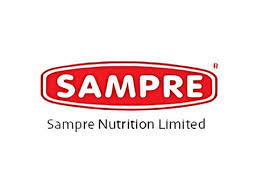
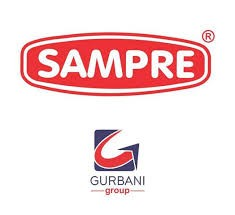
Add sampre1.jpeg image to public clients directory

Changed region(s): [[0.0596, 0.1237, 0.9234, 0.9278]]

diff --git a/src/components/Clientele.tsx b/src/components/Clientele.tsx
@@ -43,7 +43,7 @@ export const Clientele = () => {
                 <img
                   src={client.logo}
                   alt={client.name}
-                  className="relative max-w-full max-h-24 w-auto object-contain transition-all duration-500 group-hover:scale-105"
+                  className="relative max-w-full max-h-32 w-auto object-contain transition-all duration-500 group-hover:scale-105"
                   onError={(e) => {
                     // Fallback to text if image fails to load
                     const target = e.currentTarget;
@@ -59,8 +59,8 @@ export const Clientele = () => {
           
           {/* And more indicator */}
           <div className="text-center mt-8">
-            <p className="text-foreground/50 font-medium text-base tracking-wide">
-              & more
+            <p className="text-foreground/80 font-medium text-xl tracking-wide hover:text-primary transition-colors duration-300 cursor-default">
+              & more...
             </p>
           </div>
         </div>

diff --git a/src/pages/Clientele.tsx b/src/pages/Clientele.tsx
@@ -131,7 +131,7 @@ const Clientele = () => {
                 <img
                   src={client.logo}
                   alt={client.name}
-                  className="relative max-w-full max-h-28 w-auto object-contain transition-all duration-700 group-hover:scale-110"
+                  className="relative max-w-full max-h-36 w-auto object-contain transition-all duration-700 group-hover:scale-110"
                   onError={(e) => {
                     const target = e.currentTarget;
                     const parent = target.parentElement;
@@ -146,8 +146,8 @@ const Clientele = () => {
           
           {/* And more indicator */}
           <div className="text-center mt-8">
-            <p className="text-foreground/50 font-medium text-lg tracking-wide">
-              & more
+            <p className="text-foreground/80 font-medium text-2xl tracking-wide hover:text-primary transition-colors duration-300 cursor-default">
+              & more...
             </p>
           </div>
         </div>

diff --git a/src/components/Footer.tsx b/src/components/Footer.tsx
@@ -21,10 +21,9 @@ export const Footer = () => {
             <MapPin className="w-5 h-5 mt-0.5 flex-shrink-0 text-primary" />
             <address className="not-italic text-muted-foreground leading-relaxed">
               <span className="font-mono font-semibold text-foreground block mb-1 uppercase text-xs tracking-wider">Magnum Packaging LLP</span>
-              Shed no. D-13,
-               Industrial Estate- Medchal,<br />
-              Hyderabad, Telangana - 501401,<br />
-              India
+              Shed No-D13, Road no 3,<br />
+              Industrial Estate - Medchal,<br />
+              Hyderabad, Telangana-501401.
             </address>
           </div>
 
